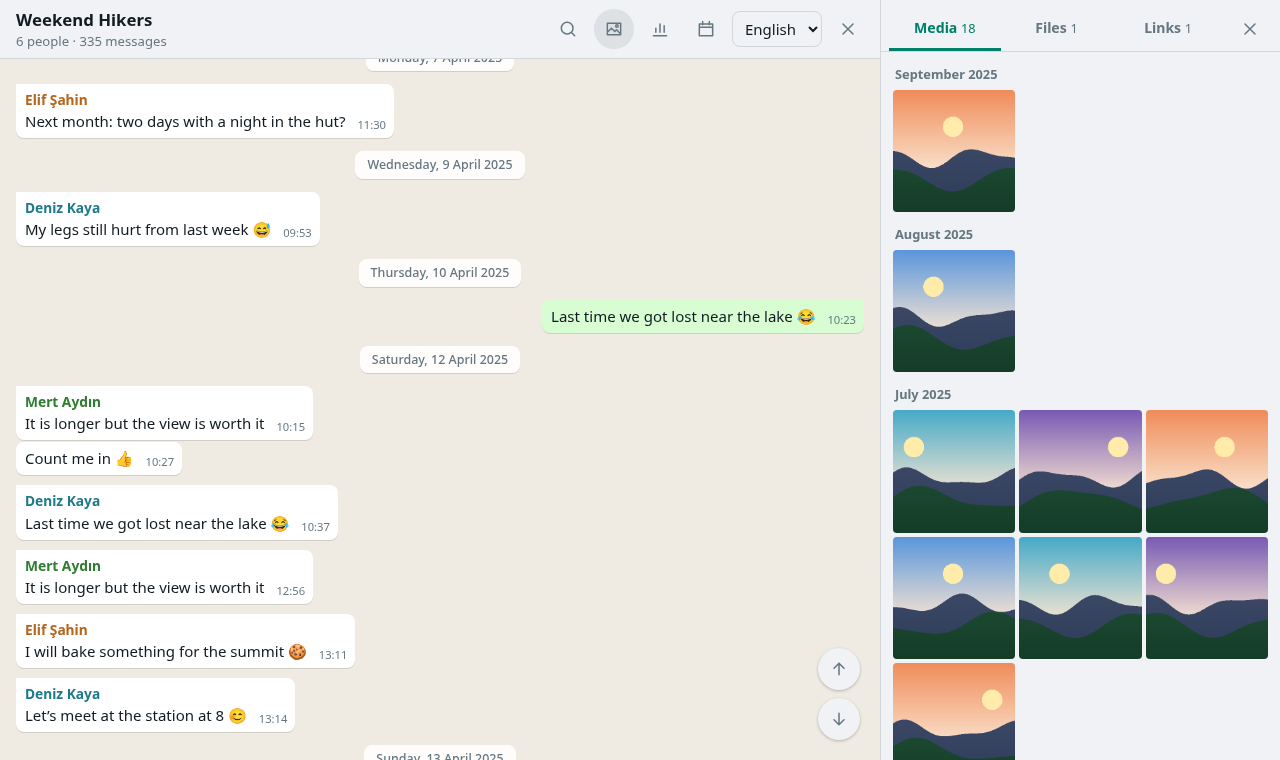
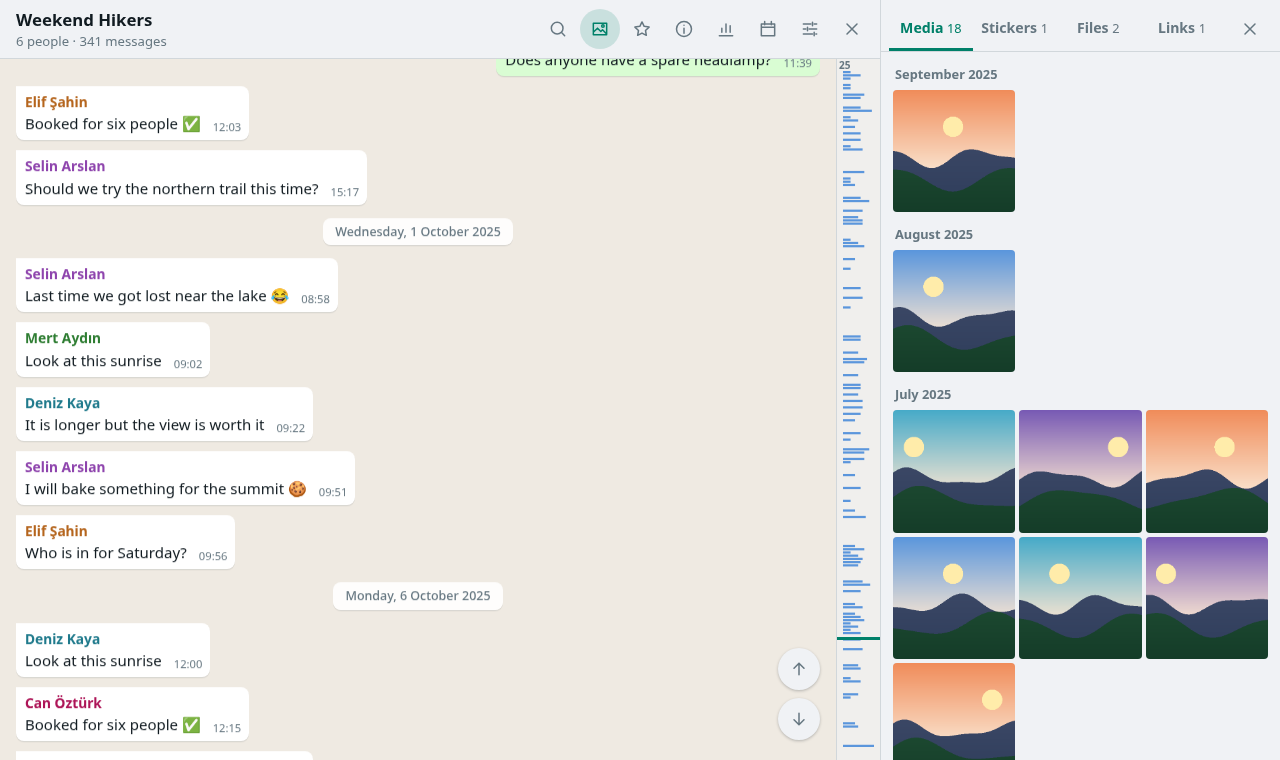
Release 0.2.0

diff --git a/README.tr.md b/README.tr.md
@@ -13,11 +13,15 @@ chatledger sizin bilgisayarınızda çalışır ve sohbeti tarayıcınızda gös
 - WhatsApp'ın dışa aktardığı `.zip` veya `.txt` dosyasını ya da dosyaların bulunduğu bir klasörü açar. Android dökümleri tam olarak desteklenir; iPhone dökümleri şimdilik deneyseldir (bkz. *Bilinen sınırlar*).
 - Sohbeti hatırladığınız gibi gösterir: fotoğraflar, videolar, çıkartmalar, sesli mesajlar, belgeler, anketler ve grup olayları. Yüz binlerce mesajlık sohbetlerde de akıcı kalır.
 - Mesajları hızlı bulur. Büyük/küçük harf ve Türkçe karakterler fark etmez, `ogretmen` yazınca `Öğretmen` de bulunur. Tam bir ifadeyi tırnak içinde arayabilir, kişiye, medyaya ya da bağlantılara göre süzebilirsiniz.
-- İstediğiniz tarihe ya da doğrudan ilk veya son mesaja götürür.
+- Biçimlendirmeyi WhatsApp'taki gibi gösterir: *kalın*, _italik_, ~üstü çizili~, `kod`, @bahsetmeler ve büyük emojiler.
+- İstediğiniz tarihe, ilk ya da son mesaja veya sohbetin yanındaki zaman çizelgesi boyunca götürür. Kaldığınız yerden açılır ve her mesajın kendi bağlantısı vardır.
+- Mesajları yıldızlamanızı, kopyalamanızı ve yıldızlarınızı dışa ya da içe aktarmanızı sağlar.
+- Sesli mesajları 1×, 1,5× ya da 2× hızda oynatır, PDF ve Word belgelerini önizler.
+- Grubun geçmişini gösterir: kimin kurduğunu, adının nasıl değiştiğini, kimlerin hâlâ grupta olduğunu ve geçmiş yıllarda bugün neler konuşulduğunu.
 - Sohbetteki bütün fotoğraf ve videoları, dosyaları ve bağlantıları tek yerde toplar; fotoğraflar tam ekran açılır.
 - En çok kimin yazdığını ve sohbetin en hareketli olduğu saatleri sayar. Aylara göre mesajları, sevilen emojileri, en uzun sessizliği ve daha fazlasını gösterir.
 - Açtığınız sohbetleri hatırlar, yeniden başlattığınızda da yerinde olurlar. Bunu kapatabilir, kayıtlı herhangi bir sohbeti kaldırabilirsiniz.
-- Arayüzü İngilizce ve Türkçedir. İki dilde ayarlanmış telefonların dökümlerini de okur.
+- Arayüzü İngilizce ve Türkçedir; açık ve koyu tema, üç yazı boyutu ve klavye kısayolları vardır (`?` tuşuna basın). İki dilde ayarlanmış telefonların dökümlerini de okur.
 
 | Galeri | İstatistikler |
 | --- | --- |

diff --git a/CHANGELOG.md b/CHANGELOG.md
@@ -2,6 +2,29 @@
 
 All notable changes to chatledger are listed here. Versions follow [semantic versioning](https://semver.org).
 
+## [0.2.0] - 2026-11-08
+
+Everything the first prototype of chatledger could do is back, and more.
+
+### Added
+
+- WhatsApp formatting in messages: *bold*, _italic_, ~strikethrough~, `code` and code blocks. Mentions are clickable and show that person's messages; messages made only of emoji are shown large.
+- A menu on every message to star it, copy its text or copy a link to it. Starred messages have their own panel and can be exported to a file and imported again.
+- Links to single messages, and the chat opens where you stopped reading last time.
+- Search steps through results with Enter and Shift+Enter, newest first, and can be limited to a date range.
+- A timeline beside the chat that shows how busy each day was and moves through months and years when dragged or used with the arrow keys.
+- A voice message player with 1×, 1.5× and 2× speed. GIFs play by themselves.
+- Previews of PDF and Word documents, and of plain-text files such as contact cards.
+- A stickers tab in the gallery.
+- Group info: who created the group, every name change, who is still in it and who left, what was said on this day in earlier years, and a random message.
+- Light and dark themes besides following the system, three text sizes, and a list of keyboard shortcuts (`?`).
+- More statistics: the longest message, who sends the most stickers and the average per day.
+
+### Changed
+
+- The header keeps search and the gallery in reach on small screens and moves everything else into one menu.
+- Search results are listed newest first.
+
 ## [0.1.0] - 2026-11-08
 
 The first release.
@@ -31,4 +54,5 @@ The first release.
 - **iPhone support is experimental.** It follows the iPhone export format but has not yet been tried on many real iPhone exports. If one does not open or looks wrong, please open an issue.
 - Group events from phones in other languages are shown as WhatsApp wrote them, without translation.
 
+[0.2.0]: https://github.com/abel0x/chatledger/releases/tag/v0.2.0
 [0.1.0]: https://github.com/abel0x/chatledger/releases/tag/v0.1.0

diff --git a/README.md b/README.md
@@ -13,11 +13,15 @@ chatledger runs on your machine and shows the chat in your browser. Your message
 - Opens the `.zip` or `.txt` that WhatsApp exports, or a folder of loose files. Android exports are fully supported; iPhone exports are experimental for now (see *Known limits*).
 - Shows the chat the way you remember it, with photos, videos, stickers, voice messages, documents, polls and group events, and stays smooth on chats with hundreds of thousands of messages.
 - Finds messages fast. Capitals and accents do not matter, so `ogretmen` finds `Öğretmen`. Put an exact phrase in quotes, or filter by person, media or links.
-- Jumps to any date, or straight to the first or last message.
+- Shows formatting the way WhatsApp does: *bold*, _italic_, ~strikethrough~, `code`, @mentions and large emoji.
+- Jumps to any date, to the first or last message, or along a timeline beside the chat. It opens where you stopped reading, and every message has a link of its own.
+- Lets you star messages, copy them, and export or import your stars.
+- Plays voice messages at 1×, 1.5× or 2× speed and previews PDF and Word documents.
+- Shows the group's history: who created it, how its name changed, who is still in it, and what was said on this day in earlier years.
 - Collects every photo and video, file and link of the chat in one place, with a full-screen viewer.
 - Counts who wrote the most and when the chat is busiest. Also shows messages per month, favourite emoji, the longest silence and more.
 - Remembers chats you open, so they are still there after a restart. You can turn this off, and you can remove any saved chat.
-- Has an English and a Turkish interface. It reads exports made by phones set to either language.
+- Has an English and a Turkish interface, a light and a dark theme, three text sizes and keyboard shortcuts (press `?`). It reads exports made by phones set to either language.
 
 | Gallery | Statistics |
 | --- | --- |
